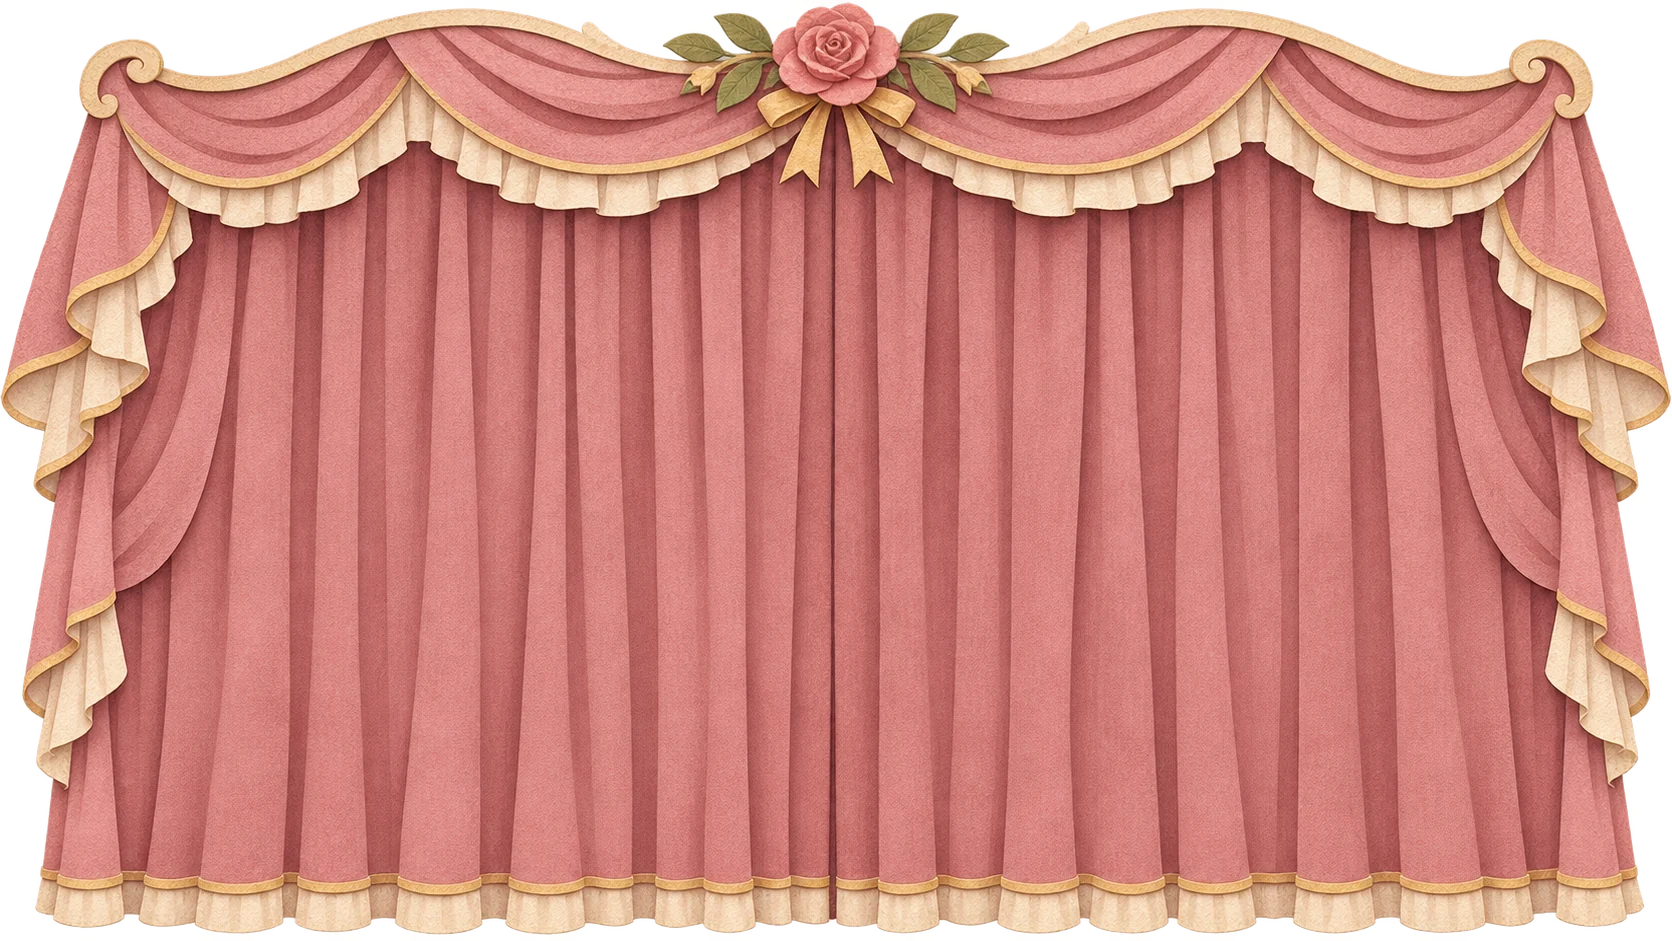
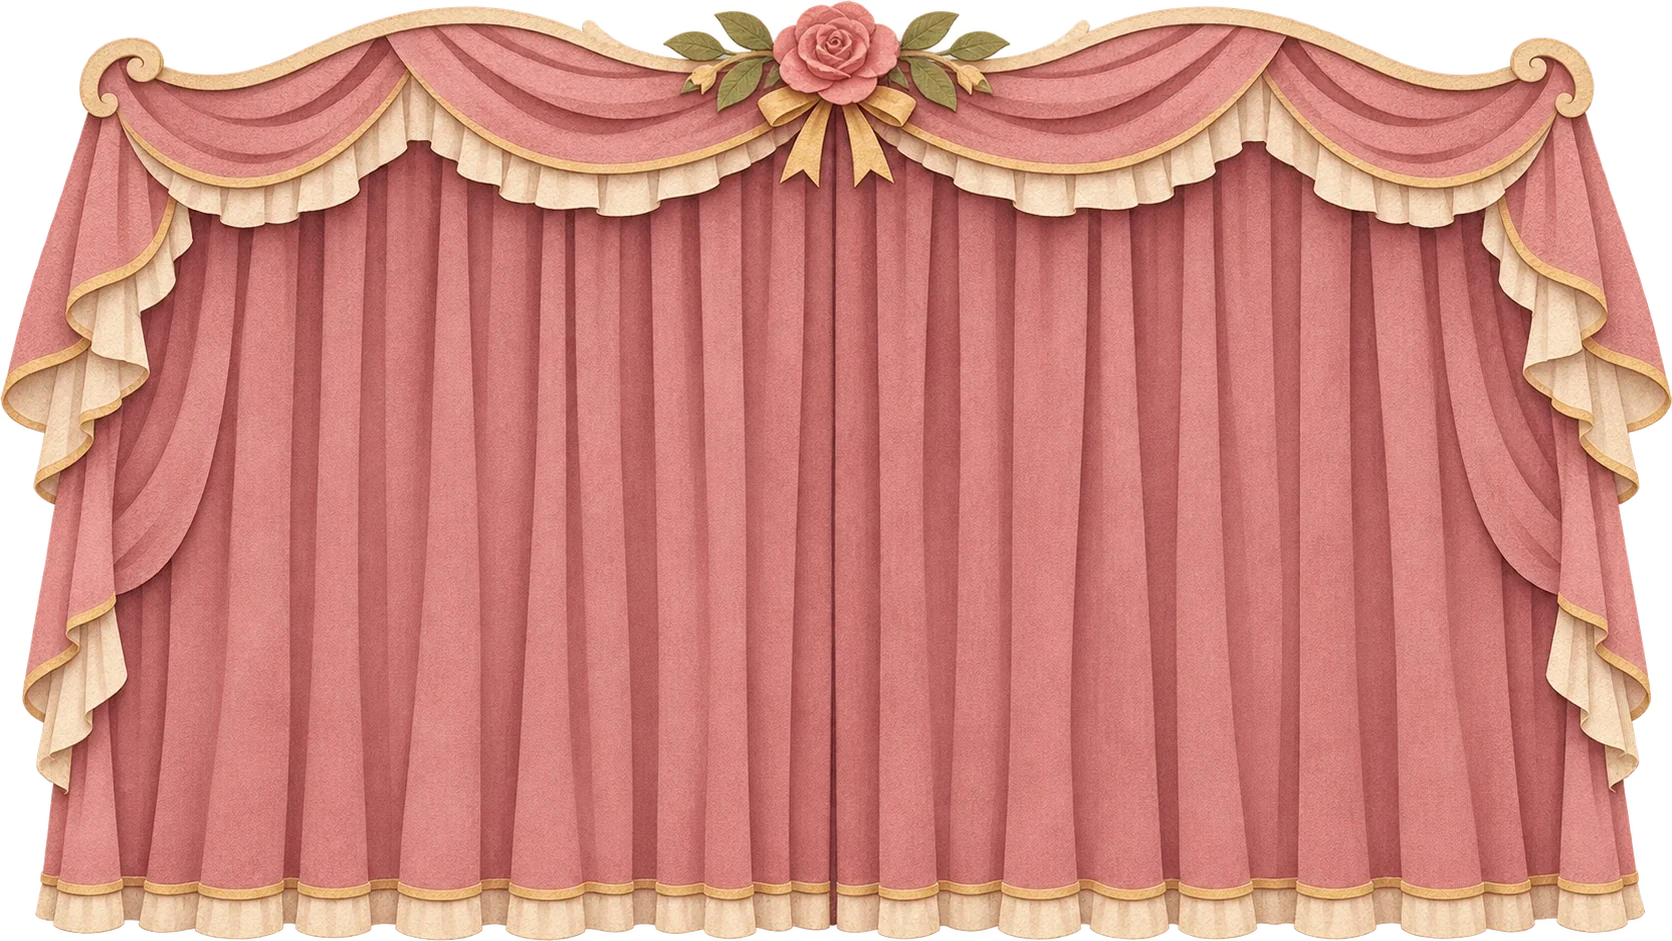
Curtains wrap the whole stage window, noise layer on top; door in clock tower arch; bigger mailbox clock face
Claude-Session: https://claude.ai/code/session_016iio8ZDPTMcyfGhDwBHeqF

diff --git a/everfreeze_single.html b/everfreeze_single.html
@@ -27,13 +27,13 @@ button{font-family:inherit;cursor:pointer}
 
 /* 오류 단계 연출 (단계 누적 · 전역) */
 #stage[data-stage="2"] .scene{filter:saturate(.92)}
-#stage[data-stage="2"] .fx{background:radial-gradient(ellipse at center,transparent 60%,rgba(60,40,90,.14) 100%)}
+body[data-stage="2"] .fx{background:radial-gradient(ellipse at center,transparent 60%,rgba(60,40,90,.14) 100%)}
 #stage[data-stage="3"] .scene{filter:saturate(.78) hue-rotate(-8deg)}
-#stage[data-stage="3"] .fx{background:repeating-linear-gradient(0deg,rgba(0,0,0,.035) 0 2px,transparent 2px 5px),radial-gradient(ellipse at center,transparent 50%,rgba(60,30,90,.22) 100%)}
+body[data-stage="3"] .fx{background:repeating-linear-gradient(0deg,rgba(0,0,0,.035) 0 2px,transparent 2px 5px),radial-gradient(ellipse at center,transparent 50%,rgba(60,30,90,.22) 100%)}
 #stage[data-stage="4"] .scene{filter:saturate(.6) hue-rotate(-18deg) contrast(1.05);animation:jitter 5s steps(1) infinite}
-#stage[data-stage="4"] .fx{background:repeating-linear-gradient(0deg,rgba(0,0,0,.06) 0 2px,transparent 2px 4px),linear-gradient(90deg,rgba(255,0,80,.05),transparent 30%,transparent 70%,rgba(0,200,255,.06)),radial-gradient(ellipse at center,transparent 40%,rgba(40,10,70,.34) 100%)}
+body[data-stage="4"] .fx{background:repeating-linear-gradient(0deg,rgba(0,0,0,.06) 0 2px,transparent 2px 4px),linear-gradient(90deg,rgba(255,0,80,.05),transparent 30%,transparent 70%,rgba(0,200,255,.06)),radial-gradient(ellipse at center,transparent 40%,rgba(40,10,70,.34) 100%)}
 #stage[data-stage="5"] .scene{filter:grayscale(.78) brightness(.94)}
-#stage[data-stage="5"] .fx{background:radial-gradient(ellipse at center,transparent 55%,rgba(20,20,30,.3) 100%)}
+body[data-stage="5"] .fx{background:radial-gradient(ellipse at center,transparent 55%,rgba(20,20,30,.3) 100%)}
 @keyframes jitter{0%,92%,100%{transform:none}93%{transform:translateX(5px)}95%{transform:translateX(-6px) skewX(.6deg)}97%{transform:translateX(3px)}}
 #stage[data-stage="5"] *{animation-play-state:paused}
 
@@ -577,15 +577,15 @@ body[data-village="gw"]{--tape:126,156,100} body[data-village="lm"]{--tape:106,1
   inset:0;background:linear-gradient(transparent 0 46%,rgba(255,255,255,.35) 47%,rgba(200,40,60,.35) 48%,transparent 49.5%) 0 0/100% 100% no-repeat;
   animation:none}
 @keyframes glitchBar{0%,62%{transform:translateY(-60%);opacity:0}63%{opacity:1}72%{transform:translateY(60%);opacity:1}73%,100%{opacity:0;transform:translateY(60%)}}
-#stage[data-stage="2"] .fx::after{opacity:.14}   /* 2단계: 미세하게 */
-#stage[data-stage="3"] .fx::after{opacity:.75}   /* 3단계부터: 확실히 보이게 */
-#stage[data-stage="3"] .fx::before{animation:glitchBar 4.5s linear infinite}
-#stage[data-stage="4"] .fx::after{opacity:1}
-#stage[data-stage="4"] .fx::before{animation:glitchBar 2.8s linear infinite;
+body[data-stage="2"] .fx::after{opacity:.14}   /* 2단계: 미세하게 */
+body[data-stage="3"] .fx::after{opacity:.75}   /* 3단계부터: 확실히 보이게 */
+body[data-stage="3"] .fx::before{animation:glitchBar 4.5s linear infinite}
+body[data-stage="4"] .fx::after{opacity:1}
+body[data-stage="4"] .fx::before{animation:glitchBar 2.8s linear infinite;
   background:linear-gradient(transparent 0 30%,rgba(200,40,60,.4) 31%,transparent 32.5%,transparent 52%,rgba(255,255,255,.45) 53%,rgba(90,40,160,.35) 54.5%,transparent 56%) 0 0/100% 100% no-repeat}
 #stage[data-stage="4"] .scene{animation:jitter 5s steps(1) infinite,tear 3.3s steps(1) infinite}
 @keyframes tear{0%,88%,100%{clip-path:none}89%{clip-path:polygon(0 0,100% 0,100% 41%,96% 41%,96% 46%,100% 46%,100% 100%,0 100%)}91%{clip-path:polygon(0 0,100% 0,100% 63%,0 63%,0 66%,100% 66%,100% 100%,0 100%)}}
-#stage[data-stage="5"] .fx::after{opacity:.55}   /* 5단계: 움직임이 멈추므로 잡음도 멈춘 채 남는다 */
+body[data-stage="5"] .fx::after{opacity:.55}   /* 5단계: 움직임이 멈추므로 잡음도 멈춘 채 남는다 */
 @media (prefers-reduced-motion: reduce){.fx::after,.fx::before{animation:none}}
 
 /* ===== 사이트 전체 오류 연출 (src/ui/glitch.js) — 게임 창 바깥, 사이트 자체가 망가진다 ===== */
@@ -852,6 +852,18 @@ body.has-logo .sign.logo .logo-img{width:620px;filter:drop-shadow(0 8px 14px rgb
 /* 시작 커튼 그림 (opening/open-0~3) */
 .opera .op-frame{position:absolute;inset:0;width:100%;height:100%;z-index:1;pointer-events:none;transition:opacity .3s}
 .opera.has-frames .drape,.opera.has-frames .opera-valance{display:none}
+
+/* ===== 커튼이 그림 창을 바깥까지 감싼다 · 잡음은 맨 위 ===== */
+body.has-curtain #stagewrap{overflow:visible}
+.curtain-img.curtain-out{position:absolute;left:-2.6%;right:-2.6%;top:-3.4%;bottom:-1.8%;z-index:3;pointer-events:none;transition:opacity .5s;background:center/100% 100% no-repeat}
+.curtain-img.curtain-out{left:-2.6%;right:-2.6%;top:-3.4%;bottom:-1.8%}
+body.stage-closed .curtain-out{opacity:0} /* 시작 커튼 · 스크롤로 내린 막이 덮여 있을 때는 숨김 */
+.fx.fx-top{position:absolute;left:-2.6%;right:-2.6%;top:-3.4%;bottom:-1.8%;z-index:4;overflow:hidden;border-radius:6px}
+body:not(.has-curtain) .fx.fx-top{inset:0}
+#stage{z-index:2}
+/* 우편함 시계: 시계판을 키우고 바늘은 시계판 안에 들어가게 줄인다 (회전축은 그대로 가운데) */
+.pa-clock{width:380px;height:380px}
+.pa-hand{scale:.62}
 
 </style>
 </head>
@@ -1986,7 +1998,9 @@ body.has-logo .sign.logo .logo-img{width:620px;filter:drop-shadow(0 8px 14px rgb
     backEl = h('div', 'edge-back'); backEl.onclick = () => UI.goBack();
     backEl.append(h('div', 'edge-arrow')); // 뒤로 갈 수 있다는 표시(항상 희미하게 보이고, 마우스를 대면 진해짐)
     decoEl = h('div', 'deco'); curtainEl = h('div', 'curtain-img'); // 장식(누를 수 없음) · 마을 커튼 그림
-    stage.append(sceneEl, decoEl, h('div', 'fx'), hsEl, curtainEl, backEl, UI.toastEl, UI.bannerEl);
+    stage.append(sceneEl, decoEl, hsEl, backEl, UI.toastEl, UI.bannerEl);
+    // 마을 커튼은 그림 창 바깥까지 감싸고, 잡음(노이즈)은 그 위 맨 꼭대기에 깐다
+    curtainEl.classList.add('curtain-out'); wrap.append(curtainEl, h('div', 'fx fx-top'));
     // 메모 버튼은 설정(showMemo)을 켰을 때만 만든다
     if (EF.CONFIG.showMemo) {
       memoBtn = h('button', 'memo-btn', '📓 메모 ('); nbCount = h('b', '', '0'); memoBtn.append(nbCount, ')');
@@ -3147,13 +3161,14 @@ body.has-logo .sign.logo .logo-img{width:620px;filter:drop-shadow(0 8px 14px rgb
       frameImg = h('img', 'op-frame'); frameImg.src = frames[0]; frameImg.alt = ''; op.insertBefore(frameImg, hang);
       frames.forEach(u => { const pre = new Image(); pre.src = u; }); // 미리 불러 둔다
     }
-    stage.append(op);
+    stage.append(op); document.body.classList.add('stage-closed');
 
     // 상태: 'title'(닫힘+로고) → 'play'(열림) ⇄ 'down'(스크롤로 닫힘)
     const C = UI.curtain = { state: 'title', busy: false, el: op };
     async function run(fn, next) {
-      if (C.busy) return; C.busy = true; UI.busy = true;
+      if (C.busy) return; C.busy = true; UI.busy = true; document.body.classList.add('stage-closed');
       await fn(); C.state = next; C.busy = false; UI.busy = next !== 'play';
+      document.body.classList.toggle('stage-closed', next !== 'play');
       onScroll(); // 애니메이션 중에 스크롤이 바뀌었으면 이어서 맞춘다
     }
     const step = T.open / 5;

diff --git a/css/style.css b/css/style.css
@@ -18,13 +18,13 @@ button{font-family:inherit;cursor:pointer}
 
 /* 오류 단계 연출 (단계 누적 · 전역) */
 #stage[data-stage="2"] .scene{filter:saturate(.92)}
-#stage[data-stage="2"] .fx{background:radial-gradient(ellipse at center,transparent 60%,rgba(60,40,90,.14) 100%)}
+body[data-stage="2"] .fx{background:radial-gradient(ellipse at center,transparent 60%,rgba(60,40,90,.14) 100%)}
 #stage[data-stage="3"] .scene{filter:saturate(.78) hue-rotate(-8deg)}
-#stage[data-stage="3"] .fx{background:repeating-linear-gradient(0deg,rgba(0,0,0,.035) 0 2px,transparent 2px 5px),radial-gradient(ellipse at center,transparent 50%,rgba(60,30,90,.22) 100%)}
+body[data-stage="3"] .fx{background:repeating-linear-gradient(0deg,rgba(0,0,0,.035) 0 2px,transparent 2px 5px),radial-gradient(ellipse at center,transparent 50%,rgba(60,30,90,.22) 100%)}
 #stage[data-stage="4"] .scene{filter:saturate(.6) hue-rotate(-18deg) contrast(1.05);animation:jitter 5s steps(1) infinite}
-#stage[data-stage="4"] .fx{background:repeating-linear-gradient(0deg,rgba(0,0,0,.06) 0 2px,transparent 2px 4px),linear-gradient(90deg,rgba(255,0,80,.05),transparent 30%,transparent 70%,rgba(0,200,255,.06)),radial-gradient(ellipse at center,transparent 40%,rgba(40,10,70,.34) 100%)}
+body[data-stage="4"] .fx{background:repeating-linear-gradient(0deg,rgba(0,0,0,.06) 0 2px,transparent 2px 4px),linear-gradient(90deg,rgba(255,0,80,.05),transparent 30%,transparent 70%,rgba(0,200,255,.06)),radial-gradient(ellipse at center,transparent 40%,rgba(40,10,70,.34) 100%)}
 #stage[data-stage="5"] .scene{filter:grayscale(.78) brightness(.94)}
-#stage[data-stage="5"] .fx{background:radial-gradient(ellipse at center,transparent 55%,rgba(20,20,30,.3) 100%)}
+body[data-stage="5"] .fx{background:radial-gradient(ellipse at center,transparent 55%,rgba(20,20,30,.3) 100%)}
 @keyframes jitter{0%,92%,100%{transform:none}93%{transform:translateX(5px)}95%{transform:translateX(-6px) skewX(.6deg)}97%{transform:translateX(3px)}}
 #stage[data-stage="5"] *{animation-play-state:paused}
 
@@ -568,15 +568,15 @@ body[data-village="gw"]{--tape:126,156,100} body[data-village="lm"]{--tape:106,1
   inset:0;background:linear-gradient(transparent 0 46%,rgba(255,255,255,.35) 47%,rgba(200,40,60,.35) 48%,transparent 49.5%) 0 0/100% 100% no-repeat;
   animation:none}
 @keyframes glitchBar{0%,62%{transform:translateY(-60%);opacity:0}63%{opacity:1}72%{transform:translateY(60%);opacity:1}73%,100%{opacity:0;transform:translateY(60%)}}
-#stage[data-stage="2"] .fx::after{opacity:.14}   /* 2단계: 미세하게 */
-#stage[data-stage="3"] .fx::after{opacity:.75}   /* 3단계부터: 확실히 보이게 */
-#stage[data-stage="3"] .fx::before{animation:glitchBar 4.5s linear infinite}
-#stage[data-stage="4"] .fx::after{opacity:1}
-#stage[data-stage="4"] .fx::before{animation:glitchBar 2.8s linear infinite;
+body[data-stage="2"] .fx::after{opacity:.14}   /* 2단계: 미세하게 */
+body[data-stage="3"] .fx::after{opacity:.75}   /* 3단계부터: 확실히 보이게 */
+body[data-stage="3"] .fx::before{animation:glitchBar 4.5s linear infinite}
+body[data-stage="4"] .fx::after{opacity:1}
+body[data-stage="4"] .fx::before{animation:glitchBar 2.8s linear infinite;
   background:linear-gradient(transparent 0 30%,rgba(200,40,60,.4) 31%,transparent 32.5%,transparent 52%,rgba(255,255,255,.45) 53%,rgba(90,40,160,.35) 54.5%,transparent 56%) 0 0/100% 100% no-repeat}
 #stage[data-stage="4"] .scene{animation:jitter 5s steps(1) infinite,tear 3.3s steps(1) infinite}
 @keyframes tear{0%,88%,100%{clip-path:none}89%{clip-path:polygon(0 0,100% 0,100% 41%,96% 41%,96% 46%,100% 46%,100% 100%,0 100%)}91%{clip-path:polygon(0 0,100% 0,100% 63%,0 63%,0 66%,100% 66%,100% 100%,0 100%)}}
-#stage[data-stage="5"] .fx::after{opacity:.55}   /* 5단계: 움직임이 멈추므로 잡음도 멈춘 채 남는다 */
+body[data-stage="5"] .fx::after{opacity:.55}   /* 5단계: 움직임이 멈추므로 잡음도 멈춘 채 남는다 */
 @media (prefers-reduced-motion: reduce){.fx::after,.fx::before{animation:none}}
 
 /* ===== 사이트 전체 오류 연출 (src/ui/glitch.js) — 게임 창 바깥, 사이트 자체가 망가진다 ===== */
@@ -843,3 +843,15 @@ body.has-logo .sign.logo .logo-img{width:620px;filter:drop-shadow(0 8px 14px rgb
 /* 시작 커튼 그림 (opening/open-0~3) */
 .opera .op-frame{position:absolute;inset:0;width:100%;height:100%;z-index:1;pointer-events:none;transition:opacity .3s}
 .opera.has-frames .drape,.opera.has-frames .opera-valance{display:none}
+
+/* ===== 커튼이 그림 창을 바깥까지 감싼다 · 잡음은 맨 위 ===== */
+body.has-curtain #stagewrap{overflow:visible}
+.curtain-img.curtain-out{position:absolute;left:-2.6%;right:-2.6%;top:-3.4%;bottom:-1.8%;z-index:3;pointer-events:none;transition:opacity .5s;background:center/100% 100% no-repeat}
+.curtain-img.curtain-out{left:-2.6%;right:-2.6%;top:-3.4%;bottom:-1.8%}
+body.stage-closed .curtain-out{opacity:0} /* 시작 커튼 · 스크롤로 내린 막이 덮여 있을 때는 숨김 */
+.fx.fx-top{position:absolute;left:-2.6%;right:-2.6%;top:-3.4%;bottom:-1.8%;z-index:4;overflow:hidden;border-radius:6px}
+body:not(.has-curtain) .fx.fx-top{inset:0}
+#stage{z-index:2}
+/* 우편함 시계: 시계판을 키우고 바늘은 시계판 안에 들어가게 줄인다 (회전축은 그대로 가운데) */
+.pa-clock{width:380px;height:380px}
+.pa-hand{scale:.62}

diff --git a/src/ui/backstage.js b/src/ui/backstage.js
@@ -38,13 +38,14 @@
       frameImg = h('img', 'op-frame'); frameImg.src = frames[0]; frameImg.alt = ''; op.insertBefore(frameImg, hang);
       frames.forEach(u => { const pre = new Image(); pre.src = u; }); // 미리 불러 둔다
     }
-    stage.append(op);
+    stage.append(op); document.body.classList.add('stage-closed');
 
     // 상태: 'title'(닫힘+로고) → 'play'(열림) ⇄ 'down'(스크롤로 닫힘)
     const C = UI.curtain = { state: 'title', busy: false, el: op };
     async function run(fn, next) {
-      if (C.busy) return; C.busy = true; UI.busy = true;
+      if (C.busy) return; C.busy = true; UI.busy = true; document.body.classList.add('stage-closed');
       await fn(); C.state = next; C.busy = false; UI.busy = next !== 'play';
+      document.body.classList.toggle('stage-closed', next !== 'play');
       onScroll(); // 애니메이션 중에 스크롤이 바뀌었으면 이어서 맞춘다
     }
     const step = T.open / 5;

diff --git a/src/ui/view.js b/src/ui/view.js
@@ -26,7 +26,9 @@
     backEl = h('div', 'edge-back'); backEl.onclick = () => UI.goBack();
     backEl.append(h('div', 'edge-arrow')); // 뒤로 갈 수 있다는 표시(항상 희미하게 보이고, 마우스를 대면 진해짐)
     decoEl = h('div', 'deco'); curtainEl = h('div', 'curtain-img'); // 장식(누를 수 없음) · 마을 커튼 그림
-    stage.append(sceneEl, decoEl, h('div', 'fx'), hsEl, curtainEl, backEl, UI.toastEl, UI.bannerEl);
+    stage.append(sceneEl, decoEl, hsEl, backEl, UI.toastEl, UI.bannerEl);
+    // 마을 커튼은 그림 창 바깥까지 감싸고, 잡음(노이즈)은 그 위 맨 꼭대기에 깐다
+    curtainEl.classList.add('curtain-out'); wrap.append(curtainEl, h('div', 'fx fx-top'));
     // 메모 버튼은 설정(showMemo)을 켰을 때만 만든다
     if (EF.CONFIG.showMemo) {
       memoBtn = h('button', 'memo-btn', '📓 메모 ('); nbCount = h('b', '', '0'); memoBtn.append(nbCount, ')');
